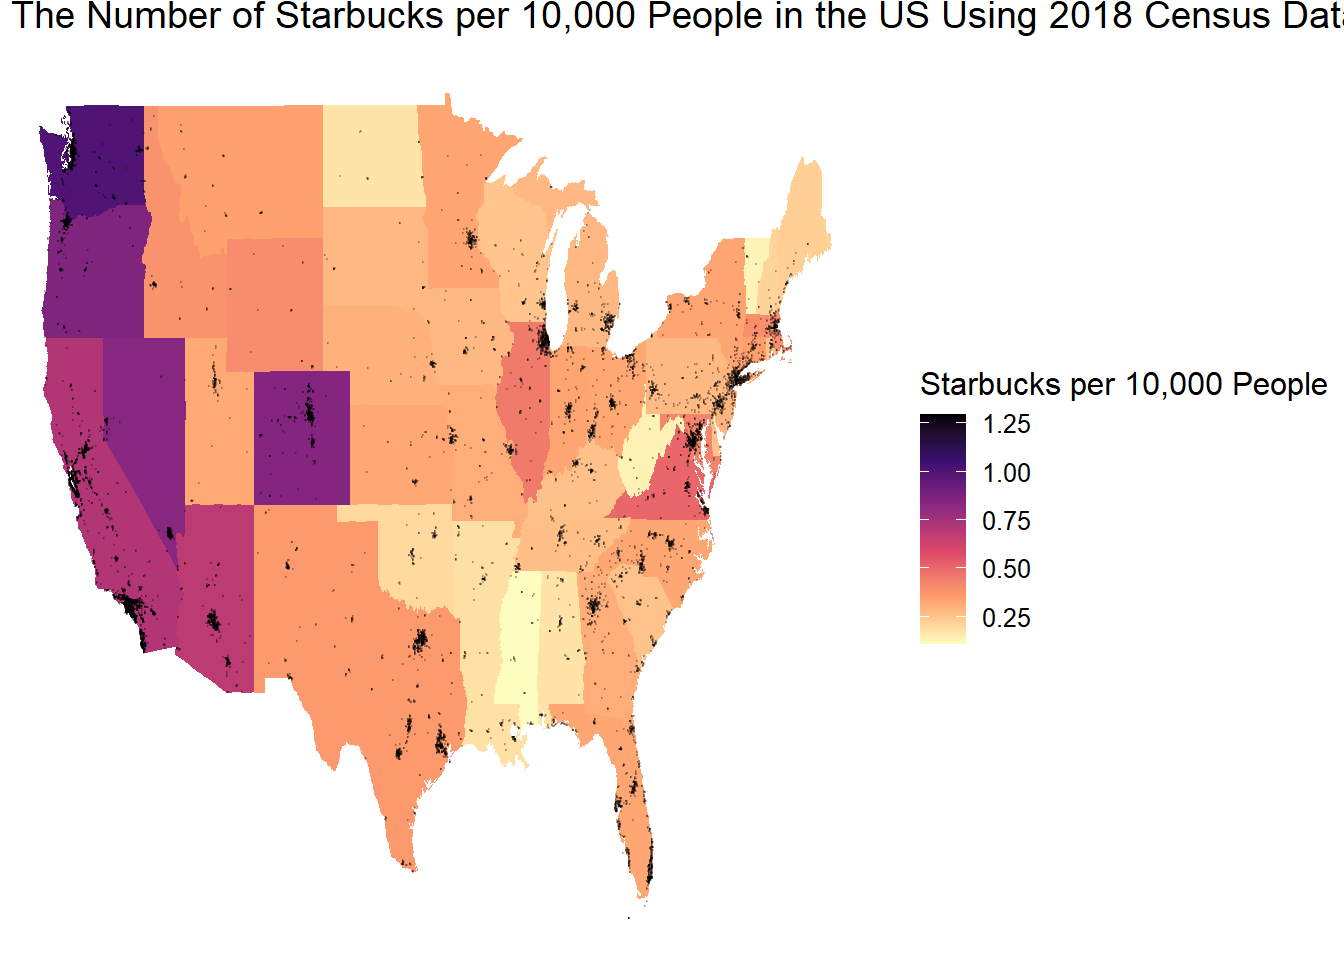
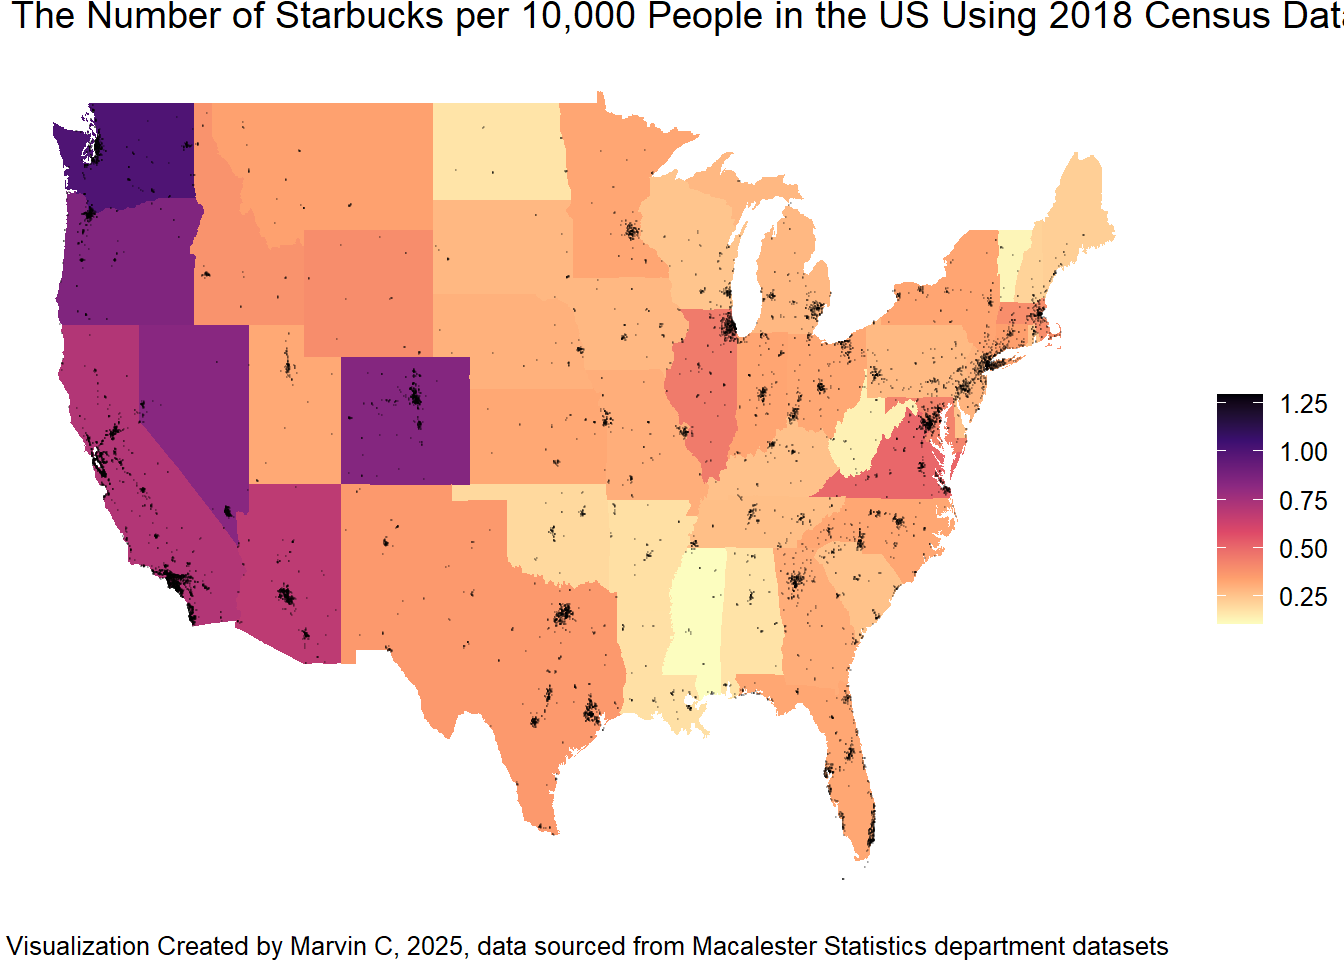
Built site for gh-pages

diff --git a/bw/bw-spatial.html b/bw/bw-spatial.html
@@ -339,9 +339,9 @@ pre > code.sourceCode > span > a:first-child::before { text-decoration: underlin
 
 </header><div class="cell">
 <div class="cell-output-display">
-<div class="quarto-figure quarto-figure-center">
+<div>
 <figure class="figure"><p><img src="bw-spatial_files/figure-html/unnamed-chunk-3-1.png" class="img-fluid figure-img" alt="A map of the United States detailing the number of Starbucks per 10,000 people using 2018 census data through a color gradient. Black dots are used to plot the locations of all Starbucks in the US. Clearly, the more populated areas of the US have a higher number of Starbucks, while simultaneously having a low ratio of Starbucks per 10,000 people." width="672"></p>
-<figcaption>Visualization Created by Marvin C, 2025</figcaption></figure>
+</figure>
 </div>
 </div>
 </div>
@@ -1022,24 +1022,23 @@ window.document.addEventListener("DOMContentLoaded", function (event) {
 <span id="cb1-44"><a href="#cb1-44"></a><span class="in">```</span></span>
 <span id="cb1-45"><a href="#cb1-45"></a></span>
 <span id="cb1-48"><a href="#cb1-48"></a><span class="in">```{r}</span></span>
-<span id="cb1-49"><a href="#cb1-49"></a><span class="co">#| fig-cap: "Visualization Created by Marvin C, 2025"</span></span>
-<span id="cb1-50"><a href="#cb1-50"></a><span class="co">#| fig-alt: "A map of the United States detailing the number of Starbucks per 10,000 people using 2018 census data through a color gradient. Black dots are used to plot the locations of all Starbucks in the US. Clearly, the more populated areas of the US have a higher number of Starbucks, while simultaneously having a low ratio of Starbucks per 10,000 people."</span></span>
-<span id="cb1-51"><a href="#cb1-51"></a></span>
-<span id="cb1-52"><a href="#cb1-52"></a>starbucks_with_2018_pop_est <span class="sc">%&gt;%</span></span>
-<span id="cb1-53"><a href="#cb1-53"></a><span class="fu">ggplot</span>(<span class="fu">aes</span>(<span class="at">map_id =</span> state_name, <span class="at">fill =</span> starbucks_per_10000)) <span class="sc">+</span></span>
-<span id="cb1-54"><a href="#cb1-54"></a>  <span class="fu">geom_map</span>(<span class="at">map =</span> states_map) <span class="sc">+</span></span>
-<span id="cb1-55"><a href="#cb1-55"></a>  <span class="fu">geom_point</span>(</span>
-<span id="cb1-56"><a href="#cb1-56"></a>    <span class="at">data =</span>  starbucks_contiguous_us,</span>
-<span id="cb1-57"><a href="#cb1-57"></a>    <span class="fu">aes</span>(<span class="at">x =</span> Longitude, <span class="at">y =</span> Latitude),</span>
-<span id="cb1-58"><a href="#cb1-58"></a>    <span class="at">inherit.aes =</span> <span class="cn">FALSE</span>,</span>
-<span id="cb1-59"><a href="#cb1-59"></a>    <span class="at">alpha =</span> <span class="fl">0.2</span>,</span>
-<span id="cb1-60"><a href="#cb1-60"></a>    <span class="at">size =</span> <span class="fl">0.05</span></span>
-<span id="cb1-61"><a href="#cb1-61"></a>  ) <span class="sc">+</span></span>
-<span id="cb1-62"><a href="#cb1-62"></a>  <span class="fu">expand_limits</span>(<span class="at">x =</span> states_map<span class="sc">$</span>long, <span class="at">y =</span> states_map<span class="sc">$</span>lat) <span class="sc">+</span></span>
-<span id="cb1-63"><a href="#cb1-63"></a>  <span class="fu">theme_map</span>() <span class="sc">+</span></span>
-<span id="cb1-64"><a href="#cb1-64"></a>  <span class="fu">scale_fill_viridis_c</span>(<span class="at">option =</span> <span class="st">"magma"</span>, <span class="at">direction =</span> <span class="sc">-</span><span class="dv">1</span>) <span class="sc">+</span></span>
-<span id="cb1-65"><a href="#cb1-65"></a>  <span class="fu">labs</span>(<span class="at">title =</span> <span class="st">" The Number of Starbucks per 10,000 People in the US Using 2018 Census Data"</span>, <span class="at">fill =</span> <span class="st">"Starbucks per 10,000 People"</span>)</span>
-<span id="cb1-66"><a href="#cb1-66"></a><span class="in">```</span></span>
+<span id="cb1-49"><a href="#cb1-49"></a><span class="co">#| fig-alt: "A map of the United States detailing the number of Starbucks per 10,000 people using 2018 census data through a color gradient. Black dots are used to plot the locations of all Starbucks in the US. Clearly, the more populated areas of the US have a higher number of Starbucks, while simultaneously having a low ratio of Starbucks per 10,000 people."</span></span>
+<span id="cb1-50"><a href="#cb1-50"></a></span>
+<span id="cb1-51"><a href="#cb1-51"></a>starbucks_with_2018_pop_est <span class="sc">%&gt;%</span></span>
+<span id="cb1-52"><a href="#cb1-52"></a><span class="fu">ggplot</span>(<span class="fu">aes</span>(<span class="at">map_id =</span> state_name, <span class="at">fill =</span> starbucks_per_10000)) <span class="sc">+</span></span>
+<span id="cb1-53"><a href="#cb1-53"></a>  <span class="fu">geom_map</span>(<span class="at">map =</span> states_map) <span class="sc">+</span></span>
+<span id="cb1-54"><a href="#cb1-54"></a>  <span class="fu">geom_point</span>(</span>
+<span id="cb1-55"><a href="#cb1-55"></a>    <span class="at">data =</span>  starbucks_contiguous_us,</span>
+<span id="cb1-56"><a href="#cb1-56"></a>    <span class="fu">aes</span>(<span class="at">x =</span> Longitude, <span class="at">y =</span> Latitude),</span>
+<span id="cb1-57"><a href="#cb1-57"></a>    <span class="at">inherit.aes =</span> <span class="cn">FALSE</span>,</span>
+<span id="cb1-58"><a href="#cb1-58"></a>    <span class="at">alpha =</span> <span class="fl">0.2</span>,</span>
+<span id="cb1-59"><a href="#cb1-59"></a>    <span class="at">size =</span> <span class="fl">0.05</span></span>
+<span id="cb1-60"><a href="#cb1-60"></a>  ) <span class="sc">+</span></span>
+<span id="cb1-61"><a href="#cb1-61"></a>  <span class="fu">expand_limits</span>(<span class="at">x =</span> states_map<span class="sc">$</span>long, <span class="at">y =</span> states_map<span class="sc">$</span>lat) <span class="sc">+</span></span>
+<span id="cb1-62"><a href="#cb1-62"></a>  <span class="fu">theme_map</span>() <span class="sc">+</span></span>
+<span id="cb1-63"><a href="#cb1-63"></a>  <span class="fu">scale_fill_viridis_c</span>(<span class="at">option =</span> <span class="st">"magma"</span>, <span class="at">direction =</span> <span class="sc">-</span><span class="dv">1</span>) <span class="sc">+</span></span>
+<span id="cb1-64"><a href="#cb1-64"></a>  <span class="fu">labs</span>(<span class="at">title =</span> <span class="st">" The Number of Starbucks per 10,000 People in the US Using 2018 Census Data"</span>, <span class="at">fill =</span> <span class="st">""</span>, <span class="at">caption =</span> <span class="st">"Visualization Created by Marvin C, 2025, data sourced from Macalester Statistics department datasets"</span>)</span>
+<span id="cb1-65"><a href="#cb1-65"></a><span class="in">```</span></span>
 </code><button title="Copy to Clipboard" class="code-copy-button" data-in-quarto-modal=""><i class="bi"></i></button></pre></div>
 </div></div></div></div></div>
 </div> <!-- /content -->
